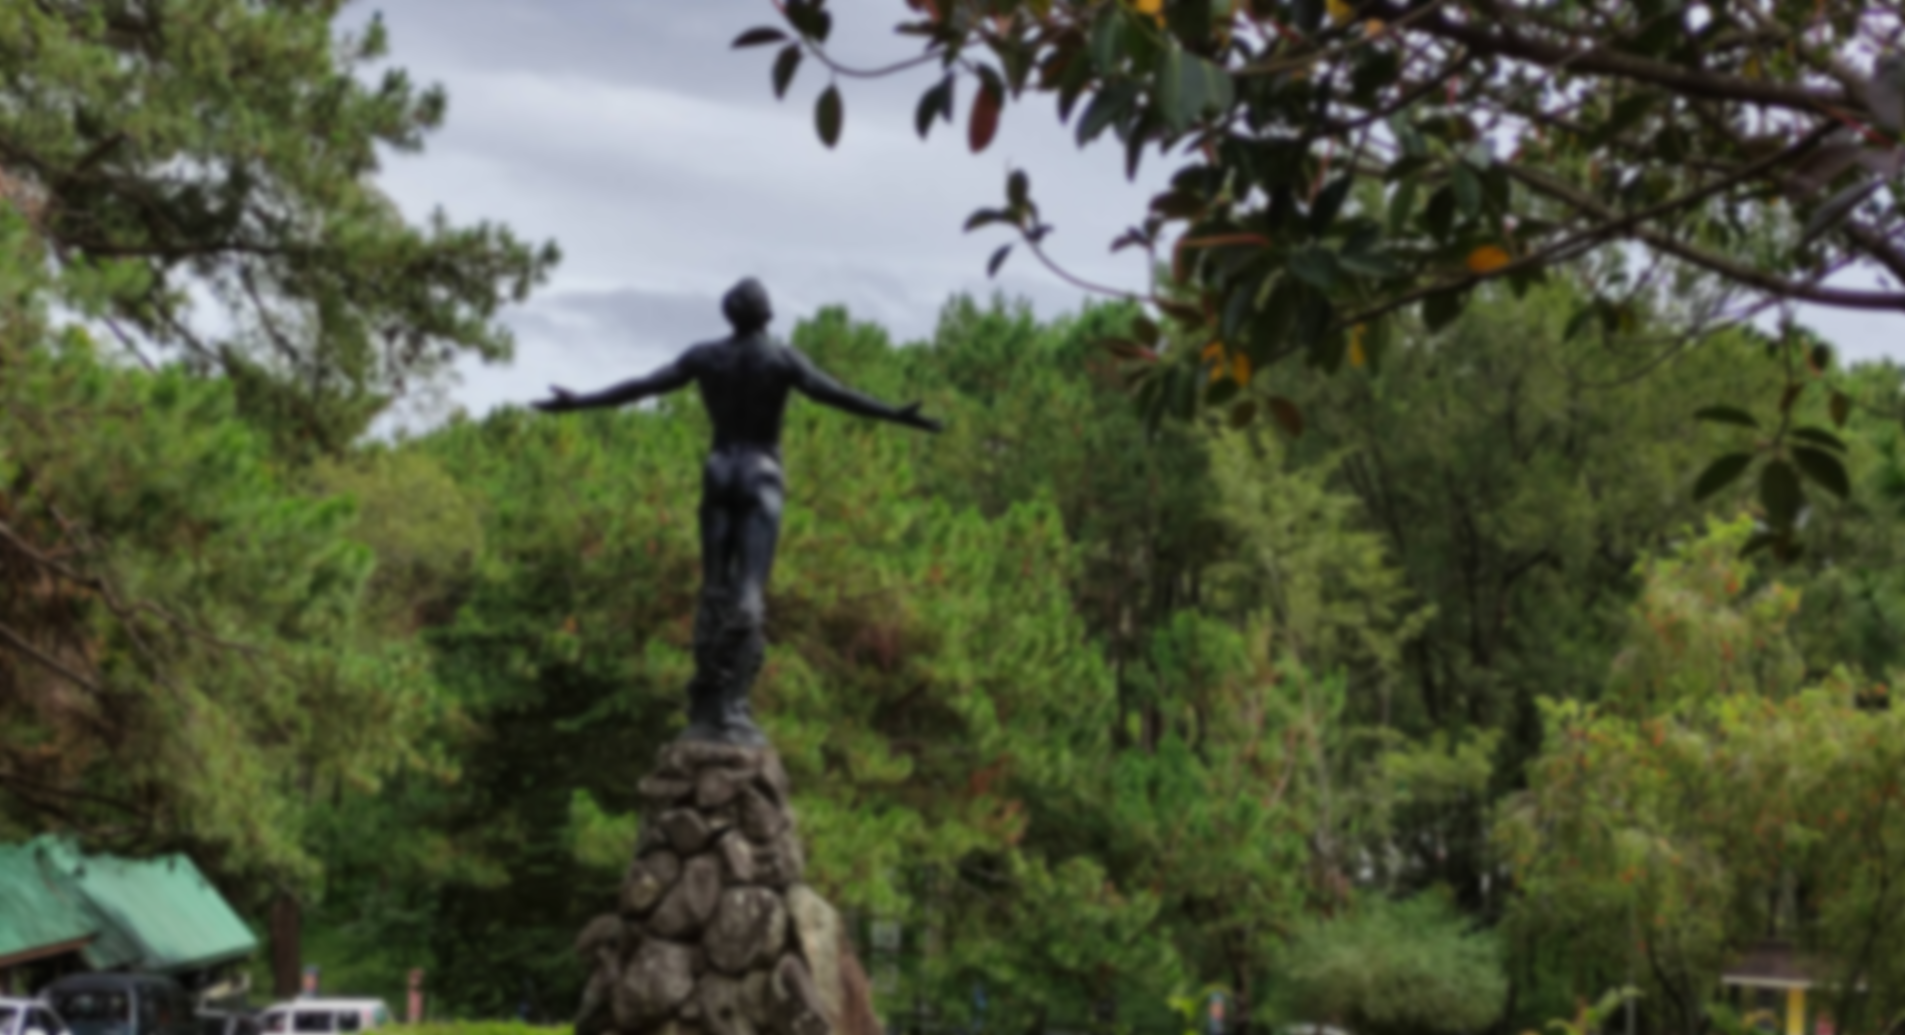
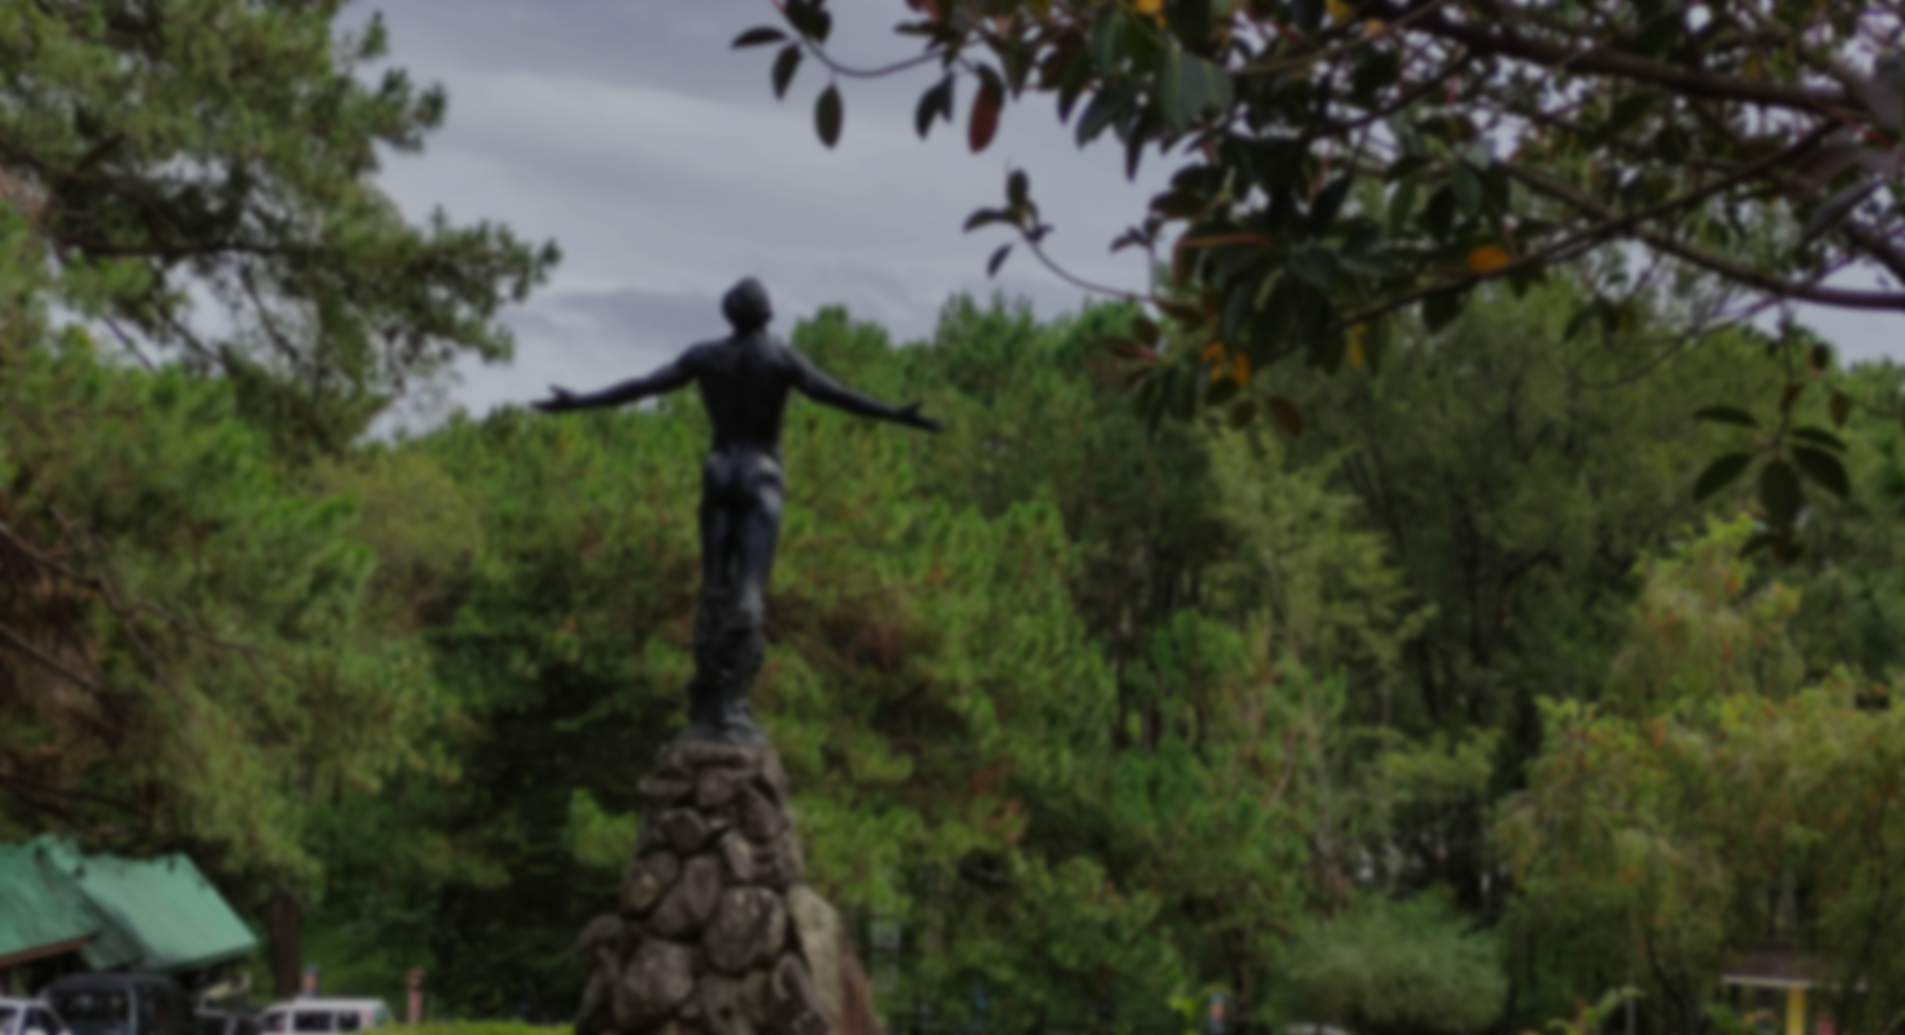
Add files via upload
Updated CSS

diff --git a/assets/style.css b/assets/style.css
@@ -1,4 +1,5 @@
 @import url('https://fonts.googleapis.com/css2?family=Poppins:wght@600&display=swap');
+@import url('https://fonts.googleapis.com/css2?family=Rubik:wght@300;400;500;700&display=swap');
 :root {
     --main-color: #00573f;
     --secondary-color: #8a1439;
@@ -12,8 +13,7 @@
     box-sizing: border-box;
     list-style-type: none;
     text-decoration: none;
-    font-family: 'Poppins', sans-serif;
-    transition: 0.5s;
+    font-family: 'Rubik', sans-serif;
 }
 
 .sidebar {
@@ -30,11 +30,16 @@
     height: 90px;
     padding: 1rem 0rem 1rem 2rem;
     color: #fff;
+    background-color: var(--secondary-color);
 }
 
 .sidebar-brand span {
     display: inline-block;
     padding-right: 1rem;
+}
+
+.sidebar-menu ul {
+    padding-top: 1rem;
 }
 
 .sidebar-menu li {
@@ -79,7 +84,8 @@
 }
 
 #nav-toggle:checked + .sidebar .sidebar-brand h2 span:last-child,
-#nav-toggle:checked + .sidebar li a span:last-child{
+#nav-toggle:checked + .sidebar li a span:last-child,
+#nav-toggle:checked + .sidebar small{
     display: none;
 }
 
@@ -164,36 +170,47 @@ main {
     background-size: cover;
     /* background: #f0f0f0; */
     min-height: calc(100vh - 90px);
+    box-shadow: 0 0 200px rgba(0,0,0,0.7) inset;
 }
 
 .cards {
     display: grid;
-    grid-template-columns: 1fr 2fr;
+    grid-template-columns: 1fr 5fr;
     grid-gap: 2rem;
 }
 
 .card-single {
     display: flex;
+    justify-content: space-between;
+    background: #fff;
+    padding: 2rem;
+    border-radius: 20px;
+    box-shadow: 4px 4px 10px rgba(0, 0, 0, 0.8);
+}
+
+.card-input {
+    display: flex;
+    flex-direction: column;
     justify-content: space-evenly;
     background: #fff;
     padding: 2rem;
-    border-radius: 2px;
-    box-shadow: 4px 4px 10px rgba(0, 0, 0, 0.2);
+    border-radius: 20px;
+    box-shadow: 4px 4px 10px rgba(0, 0, 0, 0.8);
 }
 
-/* .card-single div:first-child span {
-    font-size: 3rem;
+.card-single div:first-child span {
     color: var(--main-color);
-} */
+}
 
 
-/* .card-single div:last-child span {
-    color: var(--text-grey)
+.card-single div:last-child span {
+    font-size: 3rem;
+    color: var(--secondary-color)
 }
 
 .card-single:last-child {
     background: var(--main-color);
-} */
+}
 
 
 .card-single:last-child h1,
@@ -202,7 +219,11 @@ main {
     color: #fff;
 }
 
-.recent-grid {
+.card-input div:first-child h1 span {
+    color: var(--secondary-color)
+}
+
+.grid {
    margin-top: 2rem;
    display: grid;
    /* grid-gap: 2rem;
@@ -215,7 +236,7 @@ main {
 }
 
 .card-body {
-    padding: 1rem;
+    padding: 0rem 1rem 1rem 1rem;
 }
 
 .card-header {
@@ -237,6 +258,7 @@ main {
 }
 
 .form-input {
+    padding-top: 1rem;
     width: 100%;
     display: flex;
     justify-content: center;
@@ -294,8 +316,8 @@ table .end{
 }
 
 thead tr {
-    border-top: 1px solid #f0f0f0;
-    border-bottom: 1px solid #f0f0f0;
+    border-top: 1px solid #dddddd;
+    border-bottom: 1px solid #dddddd;
 }
 
 thead td {

diff --git a/assets/script.js b/assets/script.js
@@ -16,7 +16,7 @@ $( document ).ready(function() {
                     }else{
                         row.append($('<td>').html("<a class='edit' href='tag_edit.php?log_id='"+data.log_id+"'&student_number='"+data.student_number+"'&tag_number='"+data.tag_number+"'> <span class='las la-edit'></span></a> <a class='end' href='db-requests/end_charging_session.php?student_number="+data.student_number+"&log_id="+data.log_id+"&time_in="+data.time_in+"'> <span class='las la-undo'></span></a>").attr('style','display:none;'));
                     }
-                    
+                    row.append($('<td>').text(data.time_in));
                     row.append($('<td>').text(data.tag_number));
                     row.append($('<td>').text(data.rfid_tag));
                     row.append($('<td>').text(data.first_name+" "+data.last_name));
@@ -56,7 +56,7 @@ $( document ).ready(function() {
 
                     $('#dynamicTable tbody').append(row);
                 });
-
+                
                 // Update Tag System
                 var valuesToRemove = getColumnValues(1); // Array containing values of the tag column
                 $.each(valuesToRemove, function(index, value) {
@@ -105,7 +105,7 @@ $( document ).ready(function() {
     //Constant ID Field Focus
     var constantField = setInterval(function(){$('#field_input').focus();}, 1000);
     
-    //Admin Options
+    //Admin Options 
     $('#admin').on('click', function() {
         clearInterval(constantField);
         $('#passwordField').show();
@@ -123,6 +123,7 @@ $( document ).ready(function() {
             $('#adminOptions').show();
             setInterval(function(){$('#field_input').focus();}, 1000);
             $('#actionHead').show();
+            $('#seeall').show();
         }
     });
 });

diff --git a/main.php b/main.php
@@ -27,21 +27,36 @@
 
                 <!-- active user count -->
                 <div class="cards">
-                    <div class="card-single" id = "active-number">
-                    <?php
-                        require 'functions.php';
-                        $result = getActiveStudents();
-                            echo "<h1>".count($result)."</h1><h1> currently active </h1>";
-                    ?>
-                    </div>
                     <div class="card-single">
+                        <div>
+                            <h1>
+                            <?php
+                            require 'functions.php';
+                            $result = getActiveStudents();
+                            echo count($result);
+                            ?>
+                            </h1>
+                            <span>Active Users</span>
+                        </div>
+                        <div>
+                            <span class='las la-user'></span>
+                        </div>
+                    
+                    </div>
+                    <div class="card-input">
+                        <div>
+                            <h1>
+                            <span class='las la-search'></span> ID Scanner 
+                            </h1>
+                            <span>Accepts RFID and Barcode</span>
+                        </div>
                         <form class="form-input" id="rfid_form" action='db-requests/start_charging_session.php' method='post'>
                             <div class="input-wrapper">
                                 <input class="field_input" type = 'text' id = 'field_input' placeholder ="Place your ID onto the scanner">
                                 <input class="field_sn" type = 'text' id = 'student_number' name = 'student_number' style="display: none;">
                                 <input class="field_rfid" type = 'text' id = 'rfid_tag' name = 'rfid_tag' style="display: none;">
                                 
-                                <select class="tag_number" id = 'tag_number' name = 'tag_number'>
+                                <select class="tag_number" id = 'tag_number' name = 'tag_number' style="display: none;">
                                 <?php
                                     $number_of_tags = getNumberOfTags();
 
@@ -61,10 +76,11 @@
                 </div>
 
                 <!-- table of active users -->
-                <div class="recent-grid Users card">
+                <div class="grid card">
                     <!-- table title -->
                     <div class="card-header">
                         <h2><span class="las la-users"></span> Users</h2>
+                        <h3><a href='student.php' id="seeall" style="display:none;"> See All <span class='las la-arrow-circle-right'></span></a></h3>
                     </div>
 
                     <!-- table content -->
@@ -74,6 +90,7 @@
                             <thead>
                                 <tr>
                                     <td id="actionHead" style="display:none;">Action</td>
+                                    <td>Time In</td>
                                     <td>Tag No. </td>
                                     <td>RFID Tag</td>
                                     <td>Name</td>
@@ -84,38 +101,6 @@
                             </thead>
   
                             <tbody> 
-                                <?php
-                                    // $result = getActiveStudents();
-
-                                    // // displaying student entries
-                                    // foreach($result AS $row) {     
-                                    //     $hours = intdiv(getRemainingCharge($row['student_number']), 60);
-                                    //     $minutes = getRemainingCharge($row['student_number']) % 60;
-                                        
-                                    //     $hours_elapsed = intdiv(getTimeElapsed($row['log_id']), 60);
-                                    //     $minutes_elapsed = getTimeElapsed($row['log_id']) % 60;
-
-                                    //     echo "<tr>";
-                                    //     echo "<td> <a class='edit' href='tag_edit.php?log_id=".$row['log_id'].
-                                    //         "&student_number=".$row['student_number'].
-                                    //         "&tag_number=".$row['tag_number'].
-                                    //         "'> <span class='las la-edit'></span></a> 
-                                            
-                                    //         <a class='end' href='db-requests/end_charging_session.php?
-                                    //         student_number=".$row['student_number'].
-                                    //         "&log_id=".$row['log_id'].
-                                    //         "&time_in=".$row['time_in']."'> <span class='las la-undo'></span></a>
-                                            
-                                    //         </td>";
-                                    //     echo "<td>".$row['tag_number']."</td>";
-                                    //     echo "<td>".$row['rfid_tag']."</td>";
-                                    //     echo "<td>".$row['first_name']." ".$row['last_name']."</td>";
-                                    //     echo "<td>".$row['college']."</td>";
-                                    //     echo "<td>".$hours." hours ".$minutes." minutes</td>";
-                                    //     echo "<td>".$hours_elapsed." hours ".$minutes_elapsed." minutes</td>";
-                                    //     echo "</tr>";
-                                    // }
-                                ?>
                             </tbody>
                         </table>
                     </div>

diff --git a/includes/sidebars.php b/includes/sidebars.php
@@ -9,6 +9,7 @@ if ($page === 'main') {
         <div class='sidebar'>
             <div class='sidebar-brand'>
                 <h2><span class='las la-atom'></span> <span>AuLOG</span></h2>
+                <small>UPB Library Automated Charging Log System</small>
             </div>
 
             <div class='sidebar-menu'>
@@ -64,6 +65,7 @@ if ($page === 'main') {
         <div class='sidebar'>
             <div class='sidebar-brand'>
                 <h2><span class='las la-atom'></span> <span>AuLOG</span></h2>
+                <small>UPB Library Automated Charging Log System</small>
             </div>
 
             <div class='sidebar-menu'>
@@ -107,6 +109,7 @@ if ($page === 'main') {
         <div class='sidebar'>
             <div class='sidebar-brand'>
                 <h2><span class='las la-atom'></span> <span>AuLOG</span></h2>
+                <small>UPB Library Automated Charging Log System</small>
             </div>
 
             <div class='sidebar-menu'>
@@ -150,6 +153,7 @@ if ($page === 'main') {
         <div class='sidebar'>
             <div class='sidebar-brand'>
                 <h2><span class='las la-atom'></span> <span>AuLOG</span></h2>
+                <small>UPB Library Automated Charging Log System</small>
             </div>
 
             <div class='sidebar-menu'>
@@ -193,6 +197,7 @@ if ($page === 'main') {
         <div class='sidebar'>
             <div class='sidebar-brand'>
                 <h2><span class='las la-atom'></span> <span>AuLOG</span></h2>
+                <small>UPB Library Automated Charging Log System</small>
             </div>
 
             <div class='sidebar-menu'>
@@ -236,6 +241,7 @@ if ($page === 'main') {
         <div class='sidebar'>
             <div class='sidebar-brand'>
                 <h2><span class='las la-atom'></span> <span>AuLOG</span></h2>
+                <small>UPB Library Automated Charging Log System System</small>
             </div>
 
             <div class='sidebar-menu'>

diff --git a/includes/header.php b/includes/header.php
@@ -28,7 +28,7 @@ if ($page === 'main') {
             <form action='student.php' target='_self' method='post'>
                 <div class='search-wrapper'>
                     <span class='las la-search'></span>
-                    <input type='search' id='student_number' name = 'student_number' placeholder='Find Student No.' />
+                    <input type='search' id='student_number' name = 'student_number' placeholder='Find Student Number' />
                     <input type='submit' name='student' formmethod='post' style='display:none;'>
                 </div>
             </form>
@@ -69,7 +69,7 @@ if ($page === 'main') {
             <form action='log.php' target='_self' method='post'>
                 <div class='search-wrapper'>
                     <span class='las la-search'></span>
-                    <input type='search' id='student_number' name = 'student_number' placeholder='Find Student No.' />
+                    <input type='search' id='student_number' name = 'student_number' placeholder='Find Student Number' />
                     <input type='submit' name='log' formmethod='post' style='display:none;'>
                 </div>
             </form>

diff --git a/student.php b/student.php
@@ -23,12 +23,12 @@
 
             <!-- primary content -->
             <main>
-                <div class="recent-grid">
-                    <div class="Users card">
+                <div class="grid">
+                    <div class="card">
                         <!-- table title -->
                         <div class="card-header">
                             <h2><span class="las la-users"></span> Students</h2>
-                            <h2><a href='student_add.php'><span class='las la-plus'></span>  Add User </a> </h2>
+                            <h3><a href='student_add.php'><span class='las la-plus'></span>  Add User </a></h3>
                         </div>
 
                         <!-- table content -->

diff --git a/log.php b/log.php
@@ -25,7 +25,7 @@
                         <!-- table title -->
                         <div class="card-header">
                             <h2><span class="las la-battery-full"></span> Charging Entries </h2>
-                            <h2><a href='db-requests/reset_history.php'><span class='las la-redo'></span> Reset Charge History </a> </h2>
+                            <h3><a href='db-requests/reset_history.php'><span class='las la-redo'></span> Reset Charge History </a> </h3>
                         </div>
 
                         <!-- table content -->
